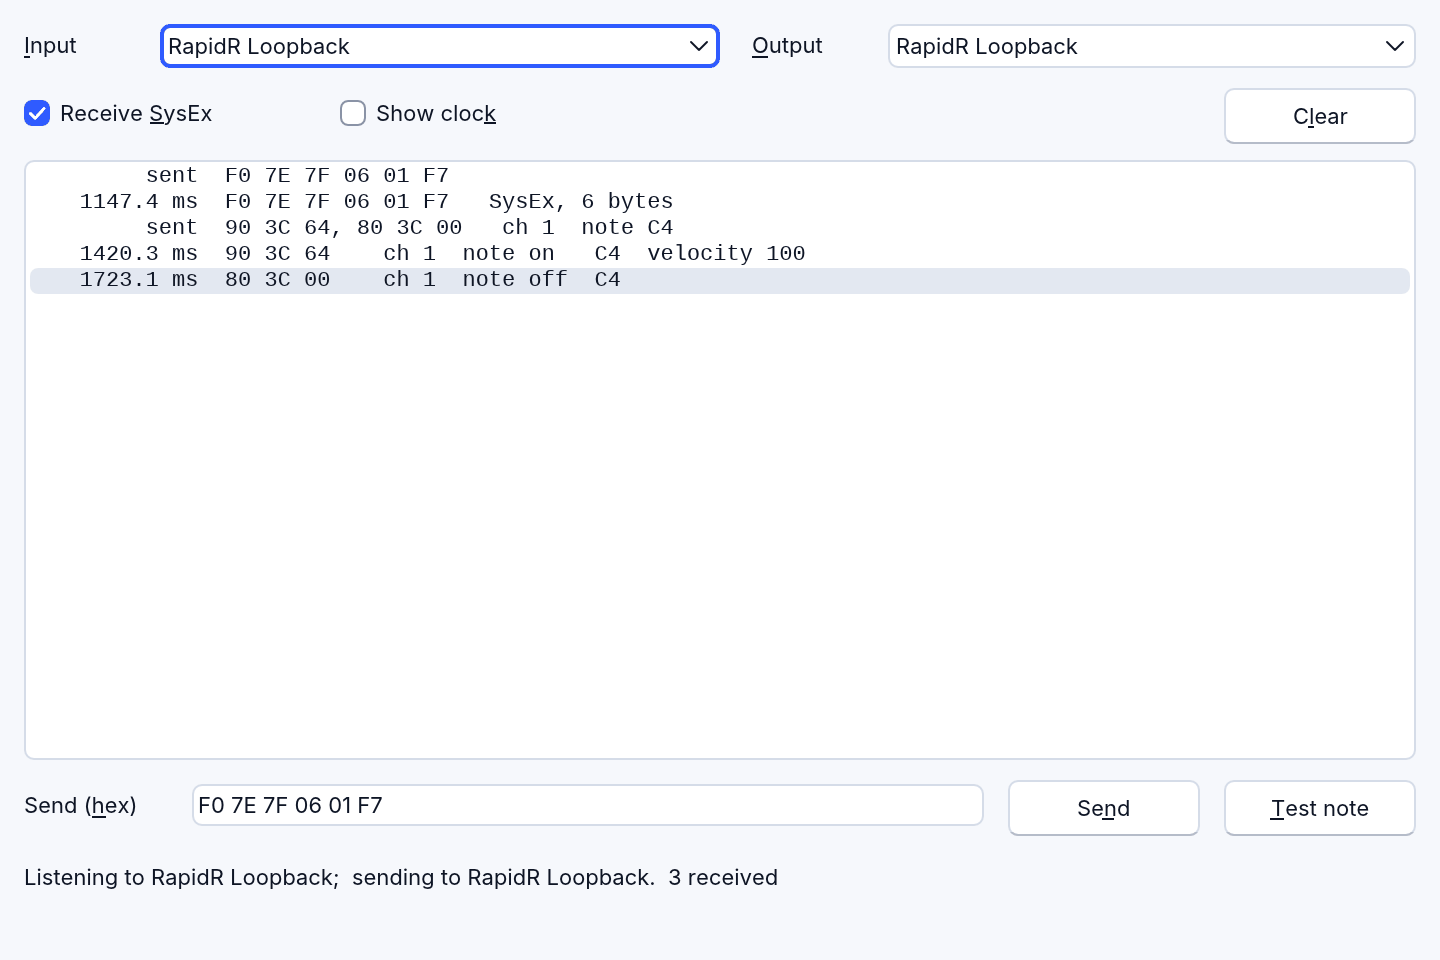
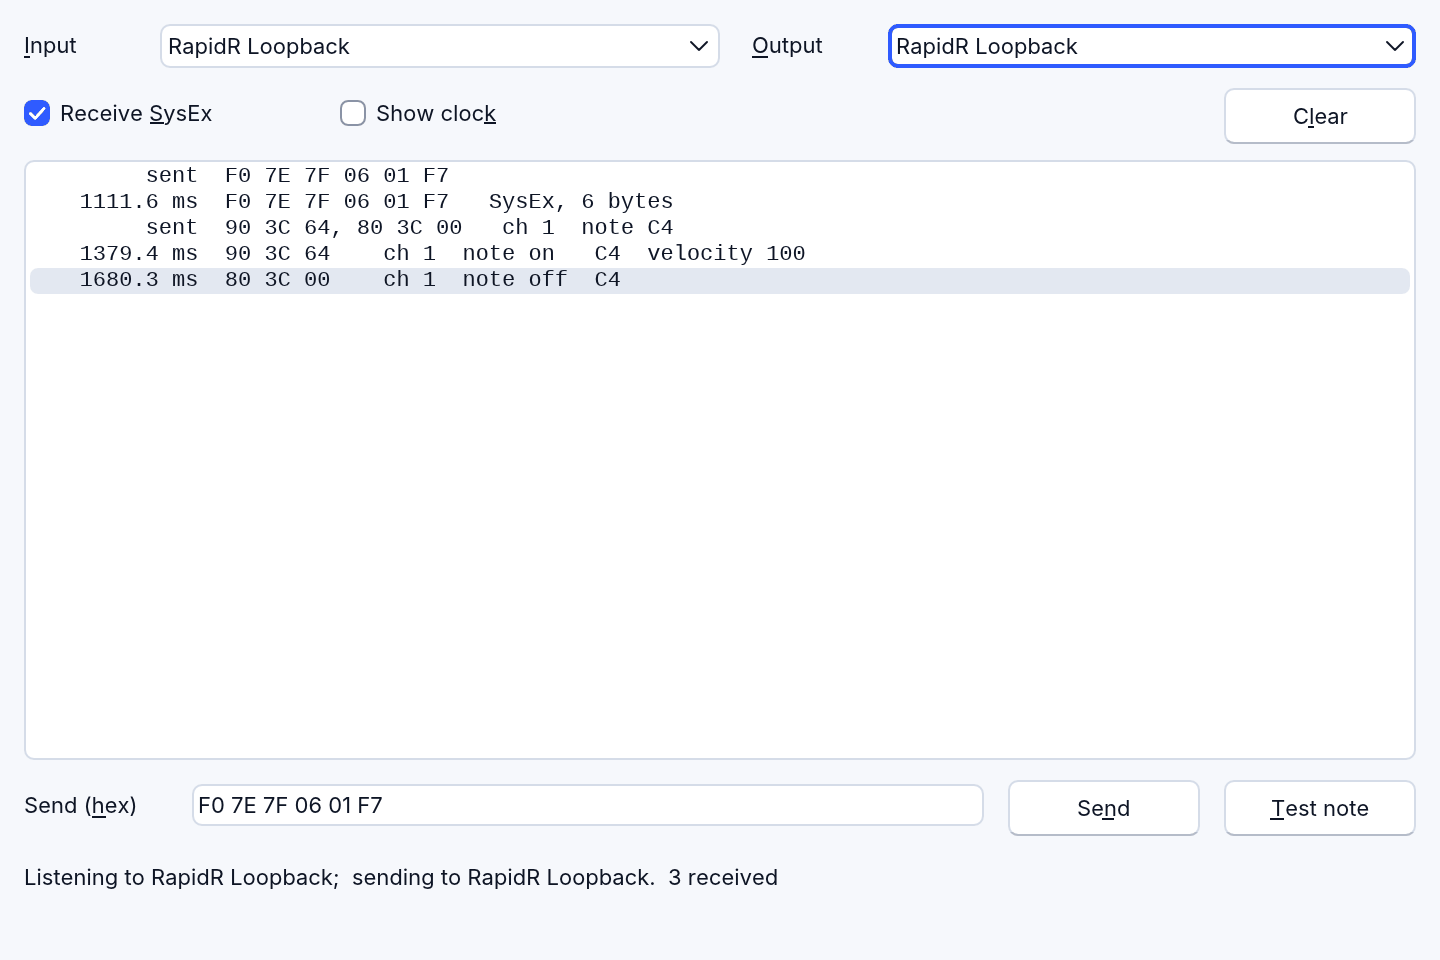
RMIDIPort: web tests never reach the browser's prompt; captures of the final examples
- The web runtime's tests page (tests/web_run.mjs) sets
  RAPIDR_TEST_MIDIPORT empty: only scripted devices, and a program's own
  ENVIRON can still plug some in (media_web::port reads the page's value
  even when empty, the program's when the page's is). Before, the
  registry's web conformance program waited on RapidR's explanation.
- tools/check_notices.py bans jack-sys as notices.rs and deny.toml do.
- The manual's two captures made again from the final examples (the
  output picked by the person, not opened for them).

diff --git a/crates/rapidr-runtime-web/src/media_web/port.rs b/crates/rapidr-runtime-web/src/media_web/port.rs
@@ -80,13 +80,17 @@ pub fn install() {
     }
     midiport::set_clock(now_ms);
     midiport::set_waker(wake);
+    // (the tests' page sets the variable, even empty: then only scripted
+    // devices, and a program's own ENVIRON can plug some in — never the
+    // browser's prompt in a test)
+    let page = page_var("RAPIDR_TEST_MIDIPORT");
     let script = rapidr_value::environ::get("RAPIDR_TEST_MIDIPORT");
-    match page_var("RAPIDR_TEST_MIDIPORT").or((!script.is_empty()).then_some(script)) {
-        Some(s) => {
-            TESTING.with(|t| t.set(true));
-            midiport::set_system(Rc::new(TestMidi::parse(&s)));
-        }
-        None => midiport::set_system(Rc::new(WebMidi)),
+    if page.is_some() || !script.is_empty() {
+        let s = page.filter(|p| !p.is_empty()).unwrap_or(script);
+        TESTING.with(|t| t.set(true));
+        midiport::set_system(Rc::new(TestMidi::parse(&s)));
+    } else {
+        midiport::set_system(Rc::new(WebMidi));
     }
     wake();
 }

diff --git a/tools/check_notices.py b/tools/check_notices.py
@@ -63,7 +63,7 @@ PERMISSIVE = {"MIT", "Apache-2.0", "Apache-2.0 WITH LLVM-exception", "BSD-2-Clau
 # Crates that must never be in a program's graph again (what was replaced:
 # docs/licensing.md).
 BANNED = {"ring", "rustls", "aws-lc-rs", "aws-lc-sys", "openssl-src", "aes", "cbc", "hkdf", "webpki-roots", "symphonia", "symphonia-core",
-          "symphonia-bundle-mp3", "font-kit", "dwrote", "option-ext", "freetype-sys"}
+          "symphonia-bundle-mp3", "font-kit", "dwrote", "option-ext", "freetype-sys", "jack-sys"}
 
 failures = []
 
